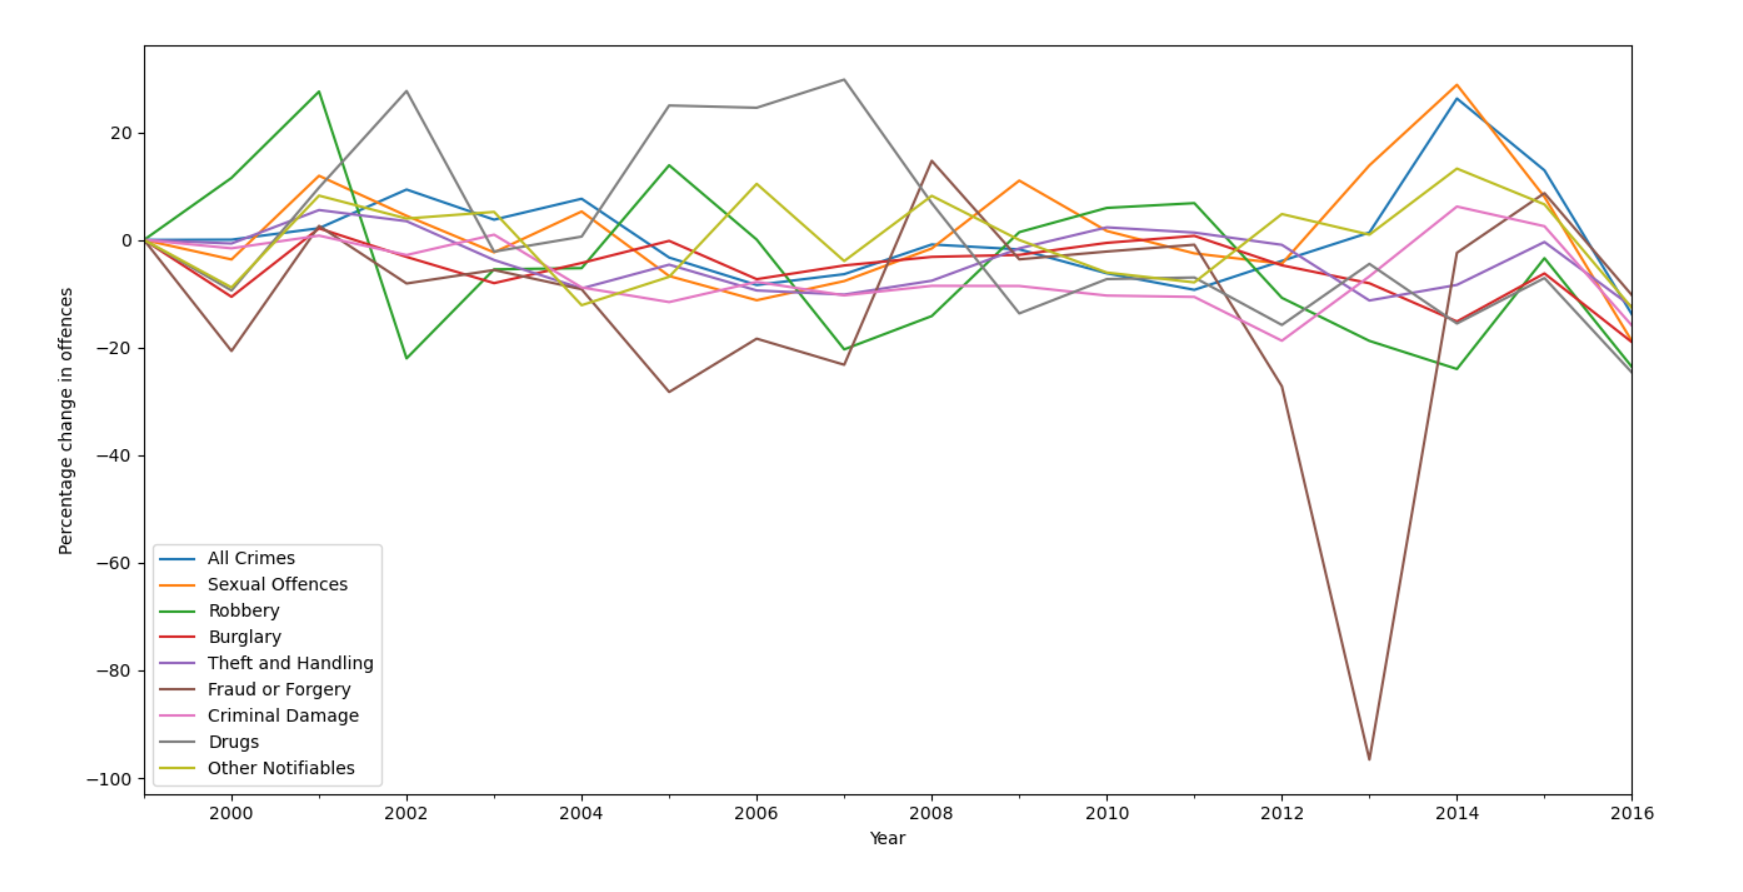
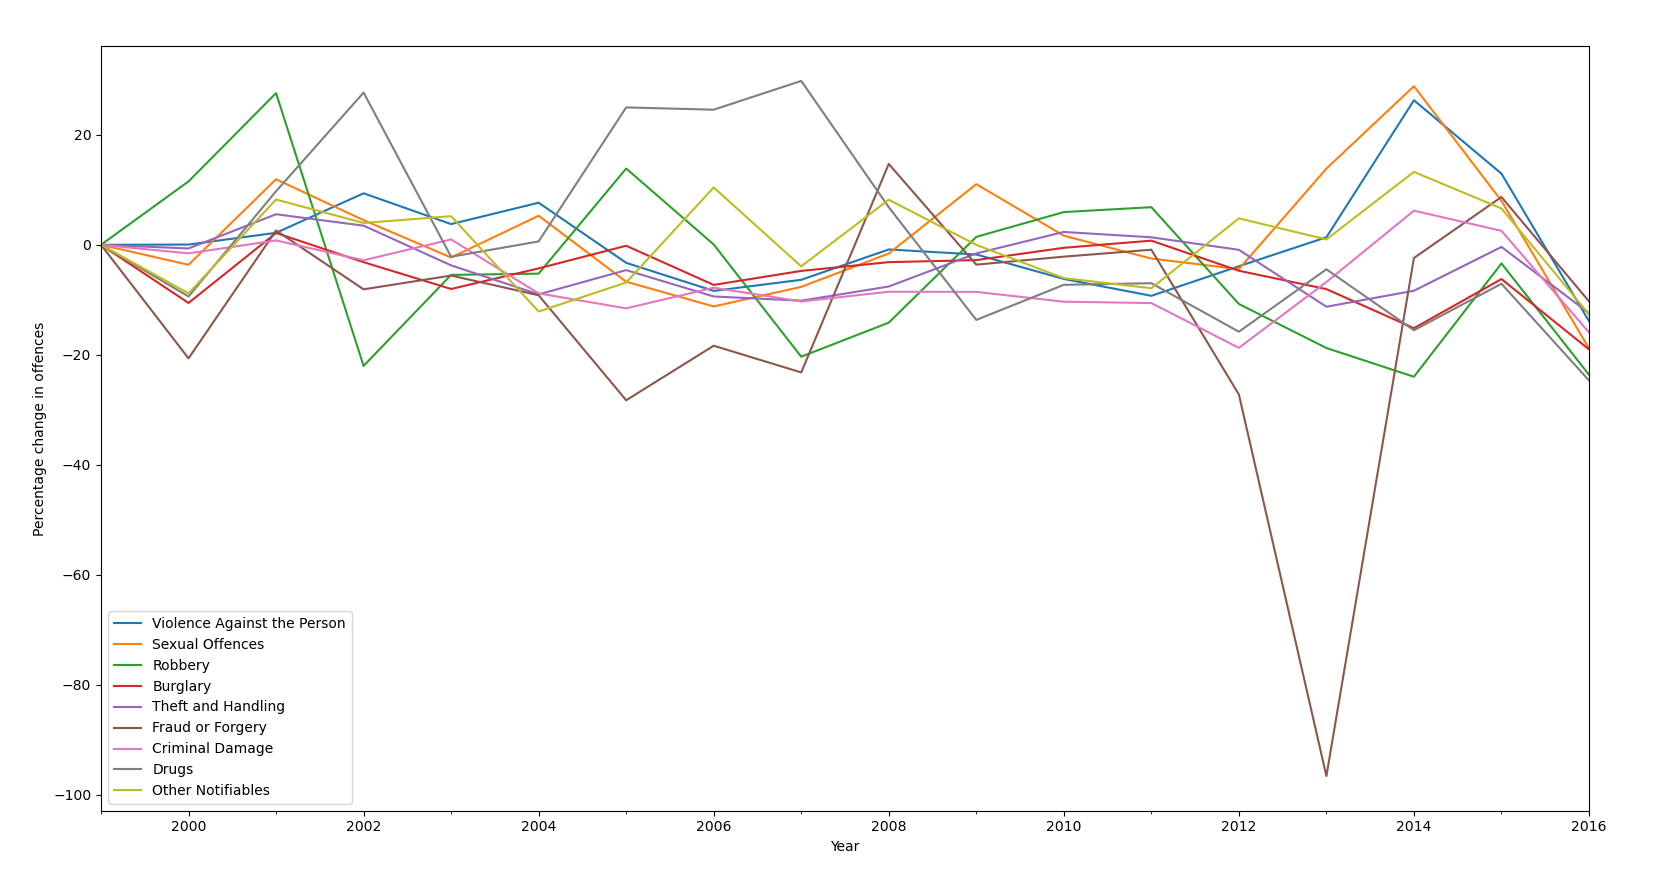
fix minor error

diff --git a/pycharm/sections.py b/pycharm/sections.py
@@ -47,8 +47,7 @@ def plot_crime_by_type():
 
     defaultFractionChange = 0
 
-    crime_by_type['All Crimes'] = 100 * calc_on_consecutive_elements_in_column(crime[crime['CrimeType'] == 'All recorded offences'], 'London', lambda pair: (pair[1]-pair[0])/pair[0], defaultFractionChange)
-    crime_by_type['All Crimes'] = 100 * calc_on_consecutive_elements_in_column(crime[crime['CrimeType'] == 'Violence Against the Person'], 'London', lambda pair: (pair[1] - pair[0]) / pair[0], defaultFractionChange)
+    crime_by_type['Violence Against the Person'] = 100 * calc_on_consecutive_elements_in_column(crime[crime['CrimeType'] == 'Violence Against the Person'], 'London', lambda pair: (pair[1] - pair[0]) / pair[0], defaultFractionChange)
     crime_by_type['Sexual Offences'] = 100 * calc_on_consecutive_elements_in_column(crime[crime['CrimeType'] == 'Sexual Offences'], 'London', lambda pair: (pair[1] - pair[0]) / pair[0], defaultFractionChange)
     crime_by_type['Robbery'] = 100 * calc_on_consecutive_elements_in_column(crime[crime['CrimeType'] == 'Robbery'], 'London', lambda pair: (pair[1] - pair[0]) / pair[0], defaultFractionChange)
     crime_by_type['Burglary'] = 100 * calc_on_consecutive_elements_in_column(crime[crime['CrimeType'] == 'Burglary'], 'London',lambda pair: (pair[1] - pair[0]) / pair[0], defaultFractionChange)
